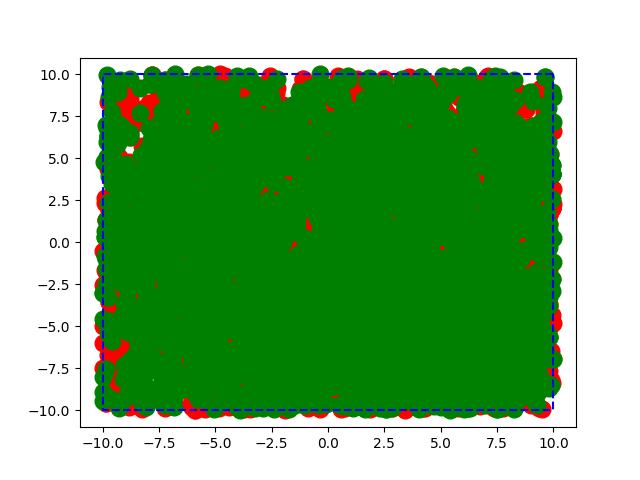
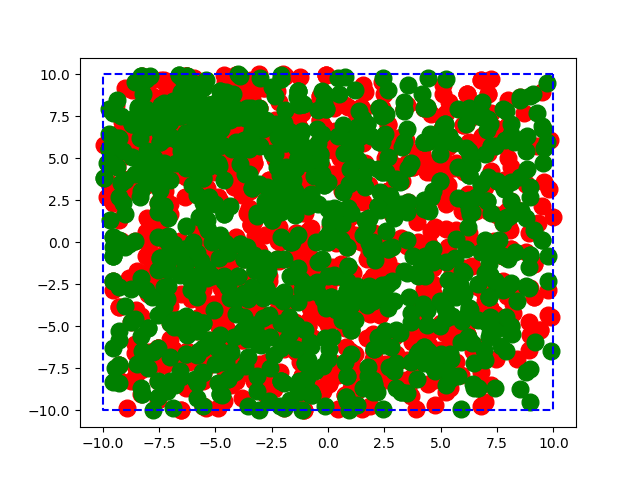
MVP: somewhat recorded path of points

diff --git a/MVP/randomwalkresults.py b/MVP/randomwalkresults.py
@@ -19,7 +19,7 @@ n_dots = 12                         # chambers around fixed chamber
 current_left_x = 0
 current_left_y = 0
 current_right_x = 0
-current_right_y = 1
+current_right_y = 2
 x = 0
 y = 0
 
@@ -34,6 +34,7 @@ def plot(is_first):
     #plt.plot(current_left_x, current_left_y, "ro")
     #plt.plot(current_right_x, current_right_y, "go")
     plt.plot([W/2,-W/2,-W/2,W/2,W/2],[H/2,H/2,-H/2,-H/2,H/2], "b--")
+    #plt.plot([20,0,0,20,20],[20,20,0,0,20], "b--")
     if (not is_first): plt.savefig("simulation.png")
     plt.show()
 
@@ -53,6 +54,7 @@ def plot_path():
 
 def collision_detection():
     return x > W/2 or y > H/2 or x < -(W/2) or y < -(H/2)
+    #return x > W or y > H or x < 0 or y < 0
 
 def robot_step():
     global current_right_x, current_right_y, current_left_x, current_left_y, is_left_fixed, x, y
@@ -78,19 +80,21 @@ def random_walk():
     if (is_left_fixed):
         right_x.append(x)
         right_y.append(y)
-        update_coverage()
+        update_all_covered_points()
         current_right_x = x 
         current_right_y = y
         is_left_fixed = 0        
     else:
         left_x.append(x)
         left_y.append(y)
-        update_coverage()
+        update_all_covered_points()
         current_left_x = x
         current_left_y = y
         is_left_fixed = 1
 
 def update_coverage():
+    print("x: ", floor(x))
+    print("y: ", floor(y))
     world_x = floor(x) + 10 % 19
     world_y = floor(y) + 10 % 19
     world[world_x, world_y] = True
@@ -110,8 +114,6 @@ def update_all_covered_points():
             world_y = floor(yy) + 10 % 19
             if (world_x < 20 and world_y < 20): 
                 world[world_x, world_y] = True
-                right_x.append(xx)
-                right_y.append(yy)
     else:
         a1 = get_angle((x,y), (current_right_x, current_right_y), (current_left_x, current_left_y))
         a2 = get_angle((current_left_x, current_left_y), (current_right_x, current_right_y), (current_right_x+1, current_right_y))
@@ -123,8 +125,6 @@ def update_all_covered_points():
             world_y = floor(yy) + 10 % 19
             if (world_x < 20 and world_y < 20): 
                 world[world_x, world_y] = True
-                left_x.append(xx)
-                left_y.append(yy)
 
 def get_angle(a, b, c):
     ang = degrees(atan2(c[1]-b[1], c[0]-b[0]) - atan2(a[1]-b[1], a[0]-b[0]))
